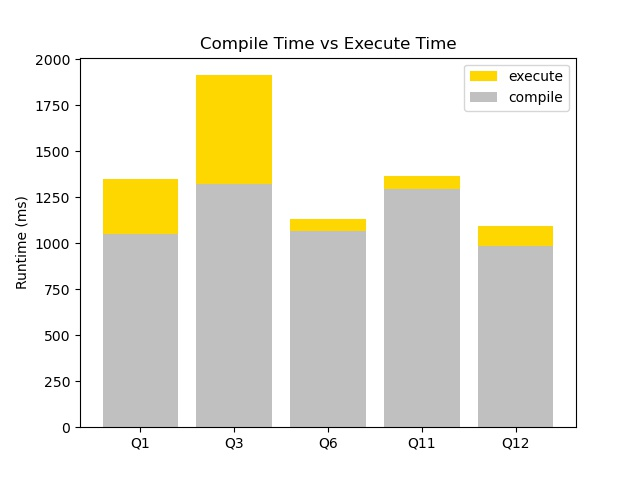
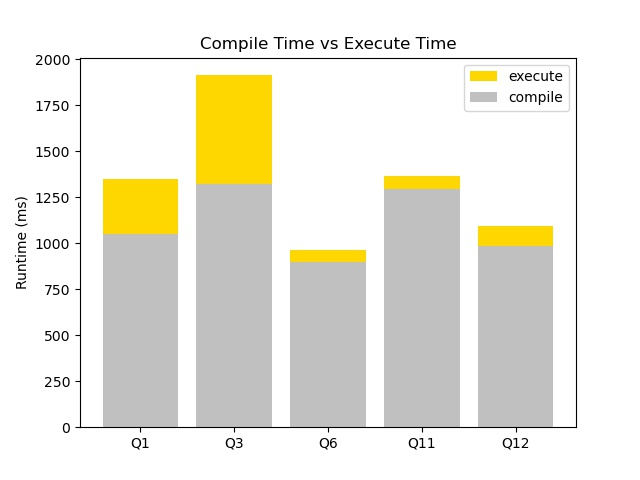
Update charts and add in something about correctness

Changed region(s): [[0.4375, 0.4375, 0.5938, 0.5625]]

diff --git a/content/blog/2020-12-18-db-compiler/index.md b/content/blog/2020-12-18-db-compiler/index.md
@@ -225,6 +225,10 @@ The queries involved are a mix of filters, group/by aggregations and joins. I've
 
 Postgres is a popular database that uses an interpretation-style execution engine so I thought it was fit to compare against as a baseline. Since my code is single-threaded, I set `max_parallel_workers` to 1. I also set `jit` off. Postgres includes a very basic compiler that will generate LLVM code for expressions only and not operators. However, since I am interested in comparing against the interpretation version, I set this off. I'm running Postgres 13.
 
+Postgres does store tuples packed on disk while I store them separately. This does mean we load less data which gives us an unfair advantage but given that we have such low data size (only 1GB), I don't think this effect will greatly impact the results. I tried fixing this by generating code to load all columns on a scan but I believe the optimizations passes from clang eliminated them so unfortunately, I can't make this equal. I did take care to ensure that Postgres uses the same underlying data type for each column though.
+
+I also verify correctness by checking that the query results are identical in Postgres.
+
 ### Setup
 
 I'm running this on a Macbook Pro, Late 2013 with an i7-4750 HQ running Ubuntu 20.04 under the Windows Linux Subystem.
@@ -233,21 +237,21 @@ For both systems, I took total running times on the client. The result rows were
 
 ### Results
 
+None of the queries had a correctness error.
+
 I ran 4 trials for each query and report the 95% (t-statistic) confidence intervals for the runtime. Note that this doesn't include the time to compile the query for our system, nor does it include the planning/parsing time for Postgres.
 
 | Query | Postgres Interval (ms) | KushDB Interval (ms) 
 | ----  | -------------------| -------------------|
 | Q1    | 1747.46 - 2677.73  | 262.29 - 337.47 |
 | Q3    | 795.16  - 1066.11  | 562.46 - 617.76 |
-| Q6    | 87.88   - 177.81   | 63.05 - 68.61 |
+| Q6    | 87.88   - 177.81   | 63.75 - 65.31 |
 | Q11   | 455.48  - 630.89   | 28.09 - 118.99 |
 | Q12   | 562.46  - 617.76   | 105.98 - 114.08 |
 
 ![phase1](runtime.jpg)
 
 For all queries generated, the compilation version greatly outperforms Postgres or matches it in the case of Q11. I suspect that the noise of measurement outweights any improvement in runtime given how fast both systems execute the query.
-
-Postgres does store tuples packed on disk while I store them separately. This does mean we load less data which gives us an unfair advantage but given that we have such low data size (only 1GB), I don't think this effect will greatly impact the results. I tried fixing this by forcing the compiler to load all columns on a scan but I believe the optimizations passes from clang eliminated them so unfortunately, I can't make this equal.
 
 ### Compilation Time
 
